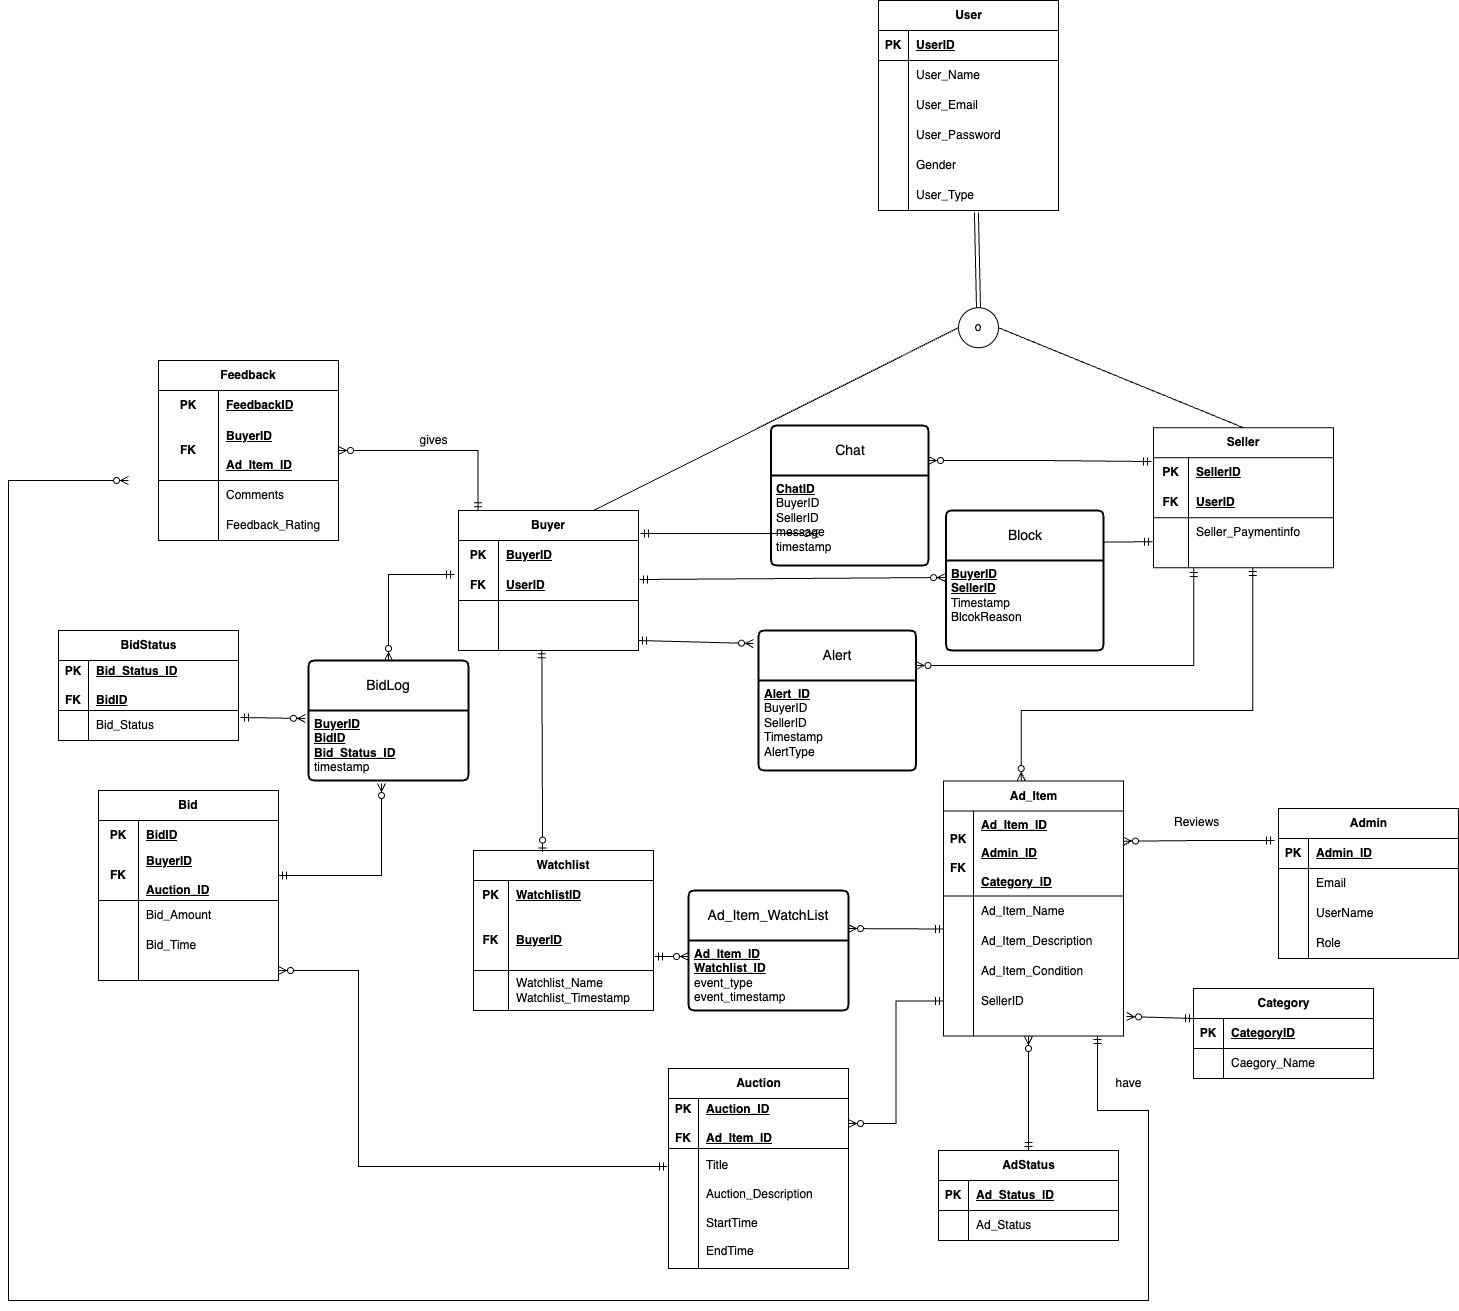
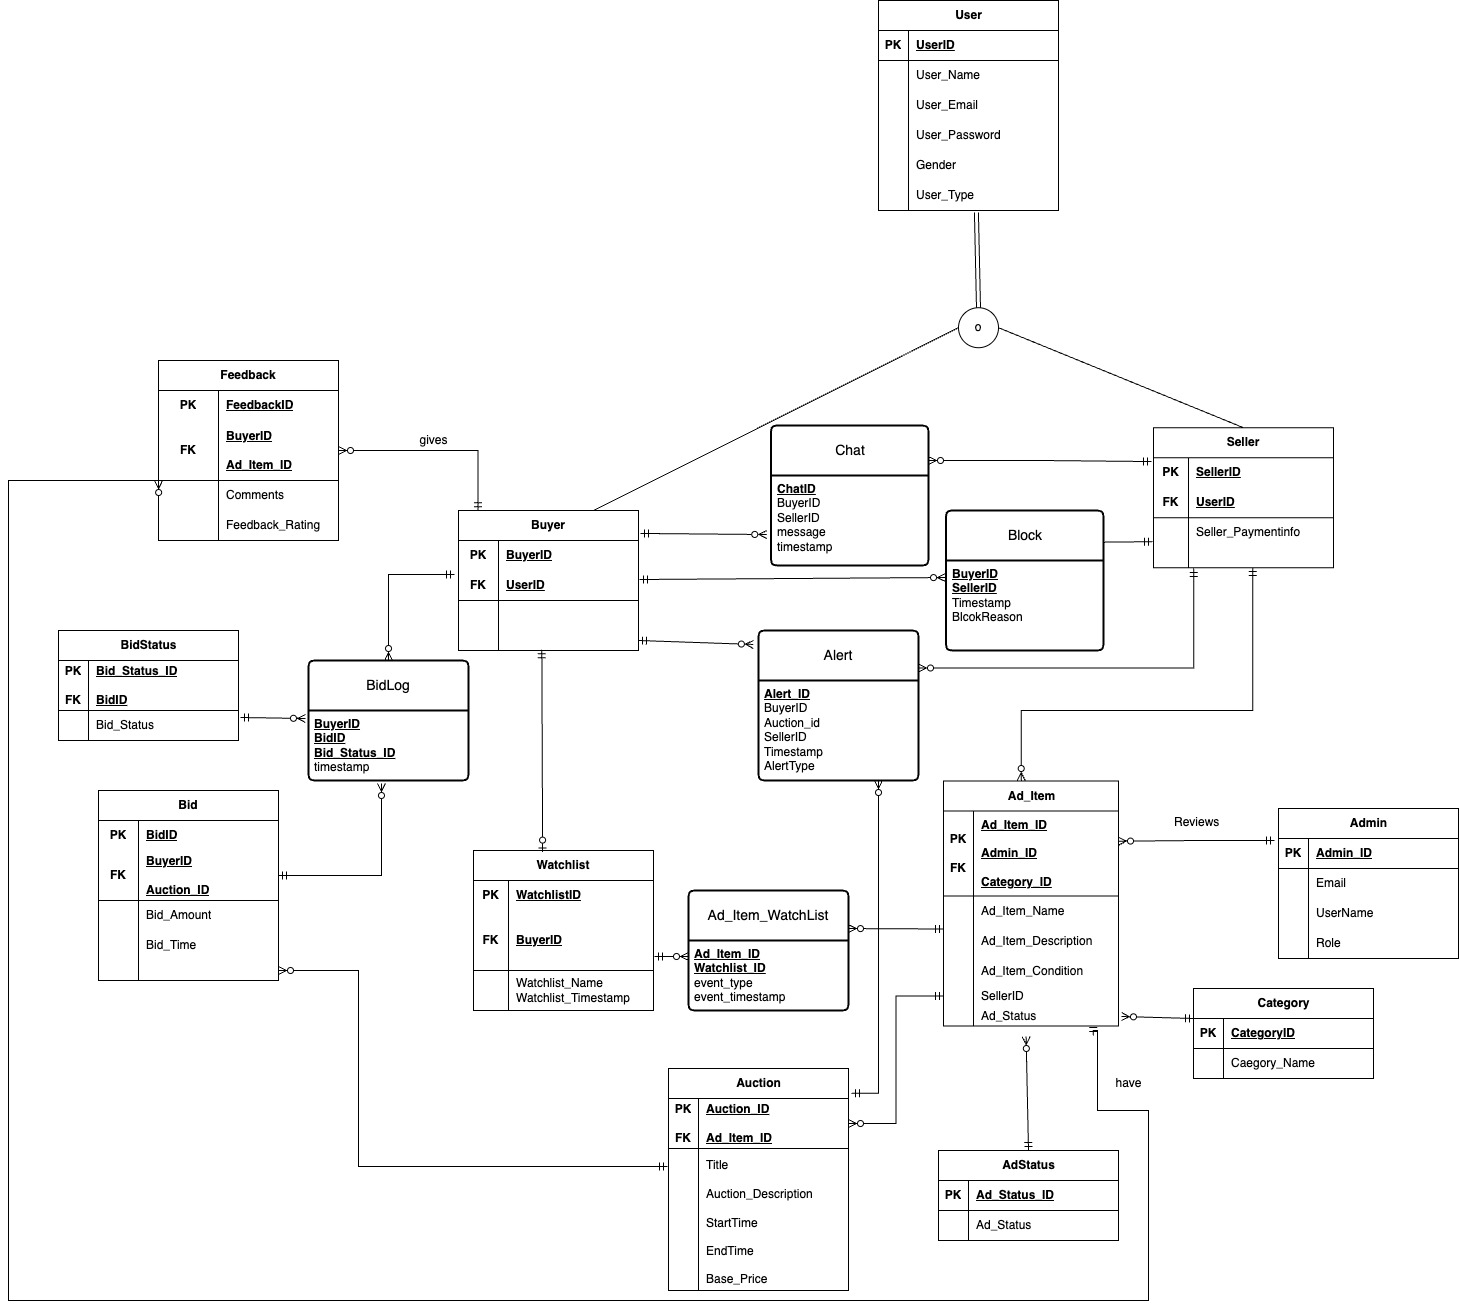
add business rules

diff --git a/P3. Final ERD.md b/P3. Final ERD.md
@@ -4,36 +4,35 @@
 
 ## Business Rules
 
-- A `User` is a Facebook user.
+- A `User` is a Facebook user. 
+- Admin is not buyer/seller he is just an employee
 - A user can be a seller or a buyer.
-- A user can publish multiple ads. The publisher of an ad is the seller.
-- A user can bid on multiple ads. The bidder of an ad is the buyer.
-- A user can receive multiple alerts on interested bids and the ad whenever state changes.
-- A user can have watchlists on multiple Ads.
-- A user can give feedbacks after the purchase.
-- A user can give mulitple feedbacks on multiple ads.
-- A user can have multiple chats with the buyers.
+- A user can publish multiple ad_items. The publisher of an ad_item is the seller.
+- The bidder of an ad_item is the buyer. A buyer can bid on multiple ad_items. 
+- A buyer can receive multiple alerts on ad_item when seller post and ad_item.
+- A user can have at most one watchlist.
+- A watchlist can have multiple items. Where watch list is to observe the ad_item status and take action to bid or not to bid by the buyer.
+- A buyer may give feedback on multiple ad_items.
+- An ad_item can get feedback from multiple buyers.
+- A buyer may chat with multiple sellers.
+- A seller may chat with multiple buyers.
 - A seller can block multiple buyers.
-- A buyer can report on multiple ads.
-- A buyer/seller can raise multiple complaints.
-- An Ad can have multiple bids.
-- An Ad can have multiple views.
-- An Ad can have multiple reports.
-- An Ad can have multiple watchlists.
-- An Ad must be mapped to exactly one Auction.
-- Every Ad has status. Like, Active, Sold, Withdrawn, etc,
-- An Ad must have Reserve Price, Buy Now Price (max price).
-- Buyers can bid only on Active Ads and the bid price must be between reserve price and buy now price.
+- An Auction can have multiple bids.
+- An Ad_item may have multiple auctions.
+- Every Ad_item has status. Like, Active, Sold, Withdrawn, etc,
 - A bid must have a status. Like, Active, Won, Lost, etc.
-- The seller must set the auction period at the time of ad posting.
-- The seller can also set the auto extension of the auction period if there are no bids on the ad.
-- The seller can also set the minimum bid increment. The minimum bid increment is the minimum amount that a buyer can bid on the item.
+- Every bid must have a timestamp associated with it.
+- An ad_item may have auctions in the past but, it must have at most one auction at a time.
+- The auction must have a start time and end time.
+- Every auction must have a base price. The bid price must be above the auction base price.
 - The seller can also set the buy now price on the auction. The buy now price is the price at which the seller is willing to sell the item immediately.
 - The buynow price is always greater than the reserve price.
 - The buyer cannot bid the amount greater than the buynow price.
 - If the buyer bids the buy now price, the auction ends immediately.
-- An admin can remove the ad if the ad is reported by the buyer and if the admin finds the ad is violating the Facebook policies.
+- An admin reviews the ad_item and can remove the ad_item if the admin finds the ad_item is violating the Facebook policies.
 
-## Initial ERD
+> Note: Admin is not buyer/seller he is just a facebook employee. So, the admin is mentioned as a separate relation with limited context to limit the project scope.
 
-![Initial ERD](<P2 Database Design, Initial ERD.png>)
+## Final ERD
+
+![Final ERD](<p3-assignment.jpg>)
